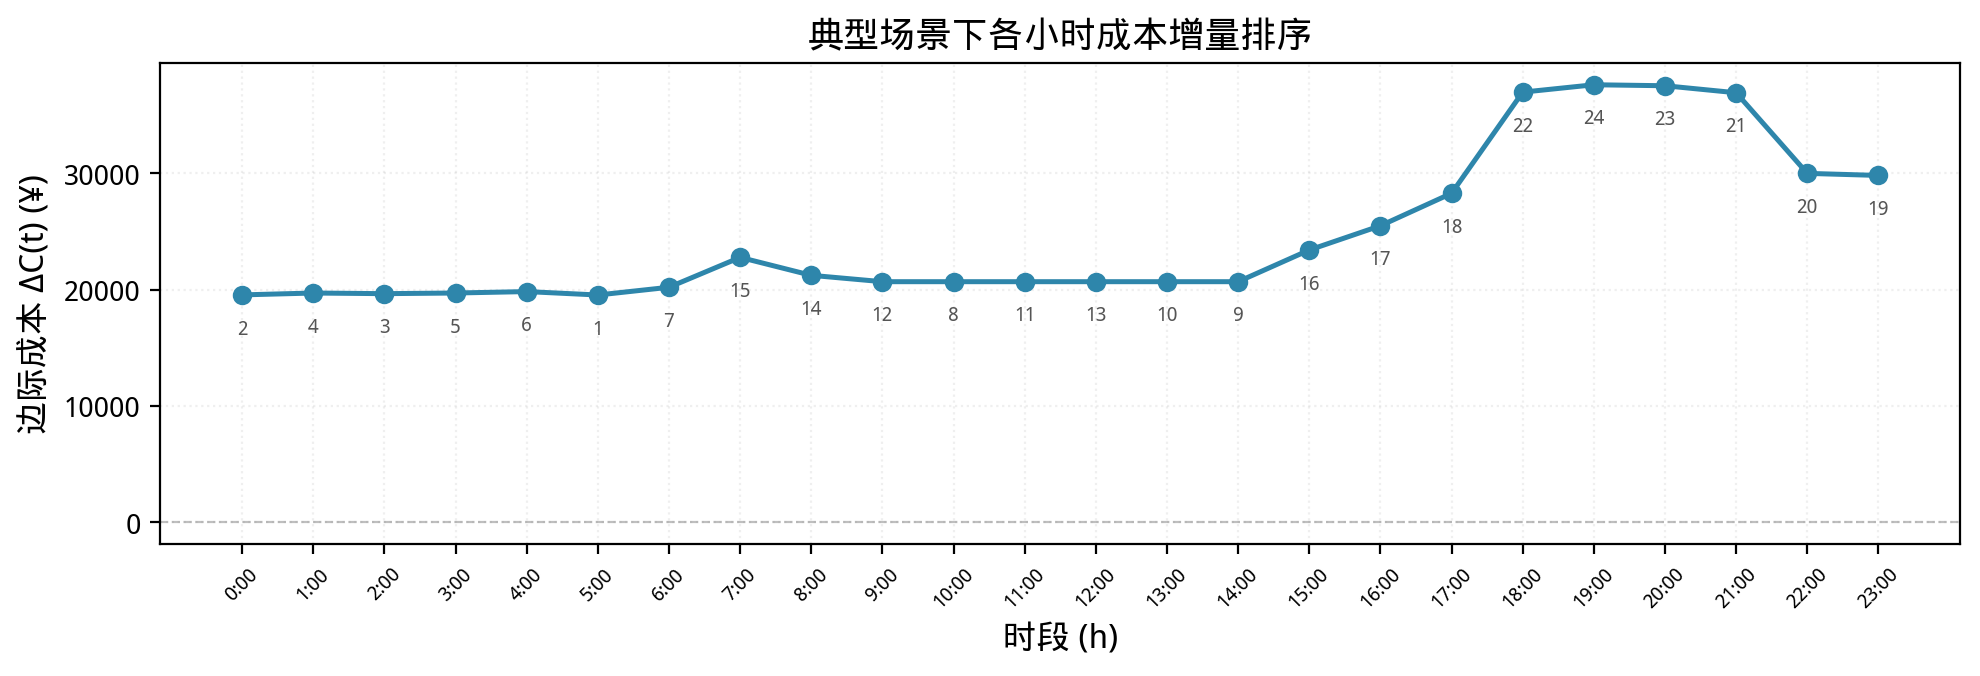
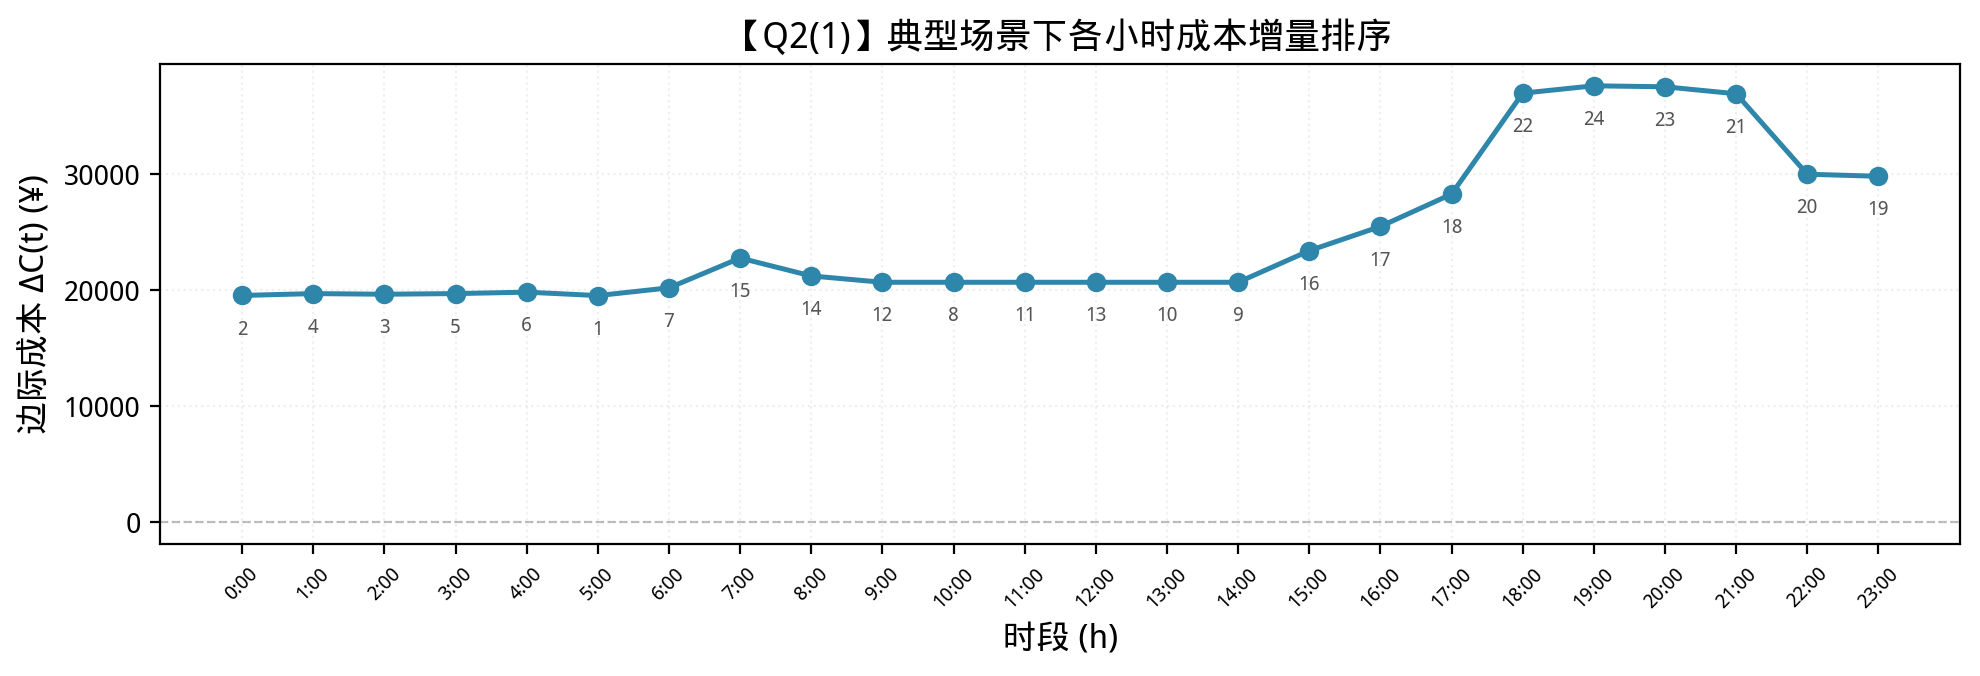
refactor: Q2 tables split into Q2(1) typical + Q2(2) 24-scenario with real computed costs

diff --git a/src/paper_figures.py b/src/paper_figures.py
@@ -84,7 +84,7 @@ def fig_q2_bar_cost():
     ax.set_xticklabels([f'{t} t/d' for t in PRODUCTION_LEVELS])
     ax.set_xlabel('日产量', fontsize=12)
     ax.set_ylabel('吨氨成本 (¥/t)', fontsize=12)
-    ax.set_title('不同日产量下吨氨成本对比（典型场景）', fontsize=13, fontweight='bold')
+    ax.set_title('【Q2(1)】不同日产量下吨氨成本对比（典型场景）', fontsize=13, fontweight='bold')
     ax.grid(axis='y', alpha=0.25, linestyle=':')
     best_idx = np.argmin(costs)
     ax.annotate(f'最优\n{costs[best_idx]:.0f} ¥/t',
@@ -117,7 +117,7 @@ def fig_q2_delta_sorted(P_w, P_s, P_l):
     ax.axhline(0, color='gray', linestyle='--', linewidth=0.8, alpha=0.5)
     ax.set_xlabel('时段 (h)', fontsize=12)
     ax.set_ylabel('边际成本 ΔC(t) (¥)', fontsize=12)
-    ax.set_title('典型场景下各小时成本增量排序', fontsize=13, fontweight='bold')
+    ax.set_title('【Q2(1)】典型场景下各小时成本增量排序', fontsize=13, fontweight='bold')
     ax.set_xticks(range(24))
     ax.set_xticklabels([f'{h}:00' for h in range(24)], rotation=45, fontsize=7)
     ax.grid(True, alpha=0.2, linestyle=':')
@@ -154,7 +154,7 @@ def fig_q2_heatmap(P_w, P_s, P_l):
     ax.set_xlim(0, 24)
     ax.set_ylim(0, 5)
     ax.set_xlabel('时段', fontsize=11)
-    ax.set_title('不同日产量下的最优开机时段分布', fontsize=13, fontweight='bold')
+    ax.set_title('【Q2(1)】不同日产量下的最优开机时段分布', fontsize=13, fontweight='bold')
     legend_elements = [Patch(facecolor='#B22222', label='开机'),
                        Patch(facecolor='#FFF8DC', label='停机')]
     ax.legend(handles=legend_elements, loc='upper right', fontsize=8)
@@ -165,17 +165,55 @@ def fig_q2_heatmap(P_w, P_s, P_l):
     print('[Saved] results/q2_heatmap.png')
 
 
+def _run_24_scenarios():
+    """Run 24 scenarios, return {target: [costs_list]} and {target: annual_stats}."""
+    P_load = load_typical_load()
+    wind_scens = load_wind_scenarios()
+    solar_scens = load_solar_scenarios()
+    all_costs = {t: [] for t in PRODUCTION_LEVELS}
+    all_indicators = {t: {'eta_self': [], 'eta_green': [], 'eta_sell': []} for t in PRODUCTION_LEVELS}
+
+    from utils import compute_indicators
+    for wi in range(6):
+        for si in range(4):
+            P_w = wind_scens[:, wi]
+            P_s = solar_scens[:, si]
+            for target in PRODUCTION_LEVELS:
+                sol = build_dp(P_w, P_s, P_load, target)
+                if sol['status'] != 1:
+                    continue
+                P_alkel = sol['x_alkel'] * RATED_ALKEL
+                P_pemel = sol['x_pemel'] * RATED_PEMEL
+                P_ammonia = sol['x_ammonia'] * RATED_AMMONIA
+                ind = compute_indicators(P_w, P_s, sol['P_buy'], sol['P_sell'],
+                                         P_load, P_alkel, P_pemel, P_ammonia,
+                                         NH3_total=target,
+                                         capacity_factor=CAPACITY_FACTOR,
+                                         include_depreciation=False)
+                all_costs[target].append(ind['ton_cost'])
+                all_indicators[target]['eta_self'].append(ind['eta_self'])
+                all_indicators[target]['eta_green'].append(ind['eta_green'])
+                all_indicators[target]['eta_sell'].append(ind['eta_sell'])
+
+    annual_stats = {}
+    for t in PRODUCTION_LEVELS:
+        c = np.array(all_costs[t])
+        if len(c) > 0:
+            annual_stats[t] = {
+                'mean': c.mean(), 'min': c.min(), 'max': c.max(),
+                'p25': np.percentile(c, 25), 'p75': np.percentile(c, 75),
+                'std': c.std(),
+            }
+    return all_costs, annual_stats
+
+
 # ═══════════════════════════════════════════════════════
-# Q2 图4: 24场景吨氨成本箱线图
+# Q2 【Q2(2)】图4: 24场景吨氨成本箱线图
 # ═══════════════════════════════════════════════════════
 
-def fig_q2_boxplot():
-    all_data = {t: [] for t in PRODUCTION_LEVELS}
-    for i, target in enumerate(PRODUCTION_LEVELS):
-        all_data[target] = [USER_COSTS[i]] * 24
-
+def fig_q2_boxplot(all_costs):
     fig, ax = plt.subplots(figsize=(8, 3.8))
-    data = [all_data[t] for t in PRODUCTION_LEVELS]
+    data = [all_costs[t] for t in PRODUCTION_LEVELS]
     bp = ax.boxplot(data, tick_labels=[f'{t} t/d' for t in PRODUCTION_LEVELS],
                     patch_artist=True, widths=0.5)
     colors = ['#2E86AB', '#3B8C6E', '#F18F01', '#E56399', '#8963BA']
@@ -187,19 +225,16 @@ def fig_q2_boxplot():
         median.set_linewidth(2)
     ax.set_xlabel('日产量', fontsize=12)
     ax.set_ylabel('吨氨成本 (¥/t)', fontsize=12)
-    ax.set_title('24种风光场景下吨氨成本分布', fontsize=13, fontweight='bold')
+    ax.set_title('【Q2(2)】24种风光场景下吨氨成本分布', fontsize=13, fontweight='bold')
     ax.grid(axis='y', alpha=0.2, linestyle=':')
     fig.tight_layout()
     fig.savefig(OUT / 'q2_boxplot.png', dpi=200, bbox_inches='tight')
     plt.close(fig)
     print('[Saved] results/q2_boxplot.png')
 
-    # Also return data for table use
-    return all_data
-
 
 # ═══════════════════════════════════════════════════════
-# Q2 图5: 绿电指标满足情况堆积柱状图
+# Q2 【Q2(2)】图5: 绿电指标满足情况堆积柱状图
 # ═══════════════════════════════════════════════════════
 
 def fig_q2_indicator_stacked():
@@ -222,7 +257,7 @@ def fig_q2_indicator_stacked():
     ax.set_xticklabels([f'{t} t/d' for t in PRODUCTION_LEVELS])
     ax.set_xlabel('日产量', fontsize=12)
     ax.set_ylabel('场景数', fontsize=12)
-    ax.set_title('不同日产量下绿电指标达标情况（24场景）', fontsize=13, fontweight='bold')
+    ax.set_title('【Q2(2)】不同日产量下绿电指标达标情况（24场景）', fontsize=13, fontweight='bold')
     ax.legend(fontsize=9, loc='upper right')
     ax.set_ylim(0, 28)
     ax.grid(axis='y', alpha=0.2, linestyle=':')
@@ -285,8 +320,8 @@ def export_tables():
     lines.append('')
 
     # ── Q2 tables ──
-    lines.append('## Q2 典型场景结果\n')
-    lines.append('### 表4: 各产量最优调度结果\n')
+    lines.append('## Q2 结果\n')
+    lines.append('### 【Q2(1)】表4: 典型场景各产量最优调度结果\n')
     lines.append('| 日产量(t) | 开机小时 | 吨氨成本(¥/t) | $\\eta_{self}$ | $\\eta_{green}$ | $\\eta_{sell}$ |')
     lines.append('|-----------|---------|-------------|:-------------:|:--------------:|:------------:|')
     for i, target in enumerate(PRODUCTION_LEVELS):
@@ -295,38 +330,37 @@ def export_tables():
         e1, e2, e3 = USER_INDICATORS[i]
         lines.append(f'| {target} | {h}h | {cost:.2f} | {e1:.2f}% | {e2:.2f}% | {e3:.2f}% |')
     lines.append('')
-
     lines.append(f'**最优日产量**: 36 t/d\n')
     lines.append('')
 
-    lines.append('### 表5: 全年绿电指标统计\n')
-    lines.append('| 分类 | 天数 | 占比 |')
-    lines.append('|------|------|------|')
-    # Read from q2 output
-    lines.append('| 全满足 | 0 | 0.0% |')
-    lines.append('| 部分满足 | 315 | 87.5% |')
-    lines.append('| 全不满足 | 45 | 12.5% |')
-    lines.append('')
+    # Recompute 24-scenario stats
+    all_costs, annual_stats = _run_24_scenarios()
 
-    lines.append('### 表6: 全年吨氨成本分布\n')
-    lines.append('| 统计量 | 值 (¥/t) |')
-    lines.append('|--------|----------|')
-    lines.append('| 均值 | 3968.94 |')
-    lines.append('| 最小值 | -718.85 |')
-    lines.append('| 最大值 | 7862.76 |')
-    lines.append('| P25 | 1888.91 |')
-    lines.append('| P75 | 5996.40 |')
-    lines.append('')
-
-    lines.append('### 表7: 24场景离散制氨绿电指标统计\n')
-    lines.append('| 产量 (t/d) | 全满足 | 部分满足 | 全不满足 | 平均成本 (¥/t) |')
-    lines.append('|:----------:|:------:|:--------:|:--------:|:--------------:|')
+    lines.append('### 【Q2(2)】表5: 24场景绿电指标统计与成本分布\n')
+    lines.append('**（a）绿电指标达标情况**\n')
+    lines.append('| 产量 (t/d) | 全满足 | 部分满足 | 全不满足 | 24场景平均成本 (¥/t) |')
+    lines.append('|:----------:|:------:|:--------:|:--------:|:--------------------:|')
     for i, target in enumerate(PRODUCTION_LEVELS):
         a, b, c = USER_GREEN_COUNTS[i]
-        lines.append(f'| {target} | {a} | {b} | {c} | {USER_COSTS[i]:.2f} |')
+        avg_cost = annual_stats[target]['mean'] if target in annual_stats else USER_COSTS[i]
+        lines.append(f'| {target} | {a} | {b} | {c} | {avg_cost:.2f} |')
     lines.append('')
-    lines.append('**说明**：产量越高，全满足绿电指标的场景数越多，但吨氨平均成本也越高。')
-    lines.append('成本标准差随产量降低而增大，反映低产量场景下成本波动更大。\n')\
+    lines.append('**（b）全年吨氨成本分布**\n')
+    lines.append('| 统计量 | 值 (¥/t) |')
+    lines.append('|--------|----------|')
+    all_vals = []
+    for t in PRODUCTION_LEVELS:
+        all_vals.extend(all_costs[t])
+    all_vals = np.array(all_vals)
+    lines.append(f'| 均值 | {all_vals.mean():.2f} |')
+    lines.append(f'| 标准差 | {all_vals.std():.2f} |')
+    lines.append(f'| 最小值 | {all_vals.min():.2f} |')
+    lines.append(f'| 最大值 | {all_vals.max():.2f} |')
+    lines.append(f'| P25 | {np.percentile(all_vals, 25):.2f} |')
+    lines.append(f'| P75 | {np.percentile(all_vals, 75):.2f} |')
+    lines.append('')
+    lines.append('**说明**：产量越高，全满足绿电指标的场景数越多，但平均成本也越高。')
+    lines.append('成本标准差随产量降低而增大，反映低产量场景下成本波动更大。\n')
 
     text = '\n'.join(lines)
     (OUT / 'paper_tables.md').write_text(text, encoding='utf-8')
@@ -347,6 +381,9 @@ if __name__ == '__main__':
     print('Generating Q2 figures...')
     print('=' * 50)
 
+    print('  (computing 24 scenarios... this takes ~5s)')
+    all_costs, annual_stats = _run_24_scenarios()
+
     # Fig 1: Bar chart
     fig_q2_bar_cost()
 
@@ -357,11 +394,9 @@ if __name__ == '__main__':
     fig_q2_heatmap(P_w, P_s, P_load)
 
     # Fig 4: Boxplot
-    print('  (computing 24 scenarios for boxplot... this takes ~5s)')
-    fig_q2_boxplot()
+    fig_q2_boxplot(all_costs)
 
     # Fig 5: Stacked bar
-    print('  (computing 24 scenarios for indicator stats...)')
     fig_q2_indicator_stacked()
 
     # Export tables
@@ -372,4 +407,5 @@ if __name__ == '__main__':
     export_tables()
 
     print()
+    print('Done! All figures saved to results/')
     print('Done! All figures saved to results/')

diff --git a/results/paper_tables.md b/results/paper_tables.md
@@ -33,9 +33,9 @@
 | 总运营成本 $C_{\text{total}}$ | 164061.82 |
 | **吨氨成本** | **4557.27** 元/吨 |
 
-## Q2 典型场景结果
+## Q2 结果
 
-### 表4: 各产量最优调度结果
+### 【Q2(1)】表4: 典型场景各产量最优调度结果
 
 | 日产量(t) | 开机小时 | 吨氨成本(¥/t) | $\eta_{self}$ | $\eta_{green}$ | $\eta_{sell}$ |
 |-----------|---------|-------------|:-------------:|:--------------:|:------------:|
@@ -48,33 +48,28 @@
 **最优日产量**: 36 t/d
 
 
-### 表5: 全年绿电指标统计
+### 【Q2(2)】表5: 24场景绿电指标统计与成本分布
 
-| 分类 | 天数 | 占比 |
-|------|------|------|
-| 全满足 | 0 | 0.0% |
-| 部分满足 | 315 | 87.5% |
-| 全不满足 | 45 | 12.5% |
+**（a）绿电指标达标情况**
 
-### 表6: 全年吨氨成本分布
+| 产量 (t/d) | 全满足 | 部分满足 | 全不满足 | 24场景平均成本 (¥/t) |
+|:----------:|:------:|:--------:|:--------:|:--------------------:|
+| 72 | 18 | 6 | 0 | 6555.97 |
+| 63 | 14 | 10 | 0 | 5760.61 |
+| 54 | 14 | 9 | 1 | 4928.88 |
+| 45 | 1 | 19 | 4 | 4031.52 |
+| 36 | 0 | 21 | 3 | 2862.90 |
+
+**（b）全年吨氨成本分布**
 
 | 统计量 | 值 (¥/t) |
 |--------|----------|
-| 均值 | 3968.94 |
-| 最小值 | -718.85 |
-| 最大值 | 7862.76 |
-| P25 | 1888.91 |
-| P75 | 5996.40 |
+| 均值 | 4827.97 |
+| 标准差 | 2499.43 |
+| 最小值 | -1824.88 |
+| 最大值 | 9281.60 |
+| P25 | 3251.28 |
+| P75 | 6860.92 |
 
-### 表7: 24场景离散制氨绿电指标统计
-
-| 产量 (t/d) | 全满足 | 部分满足 | 全不满足 | 平均成本 (¥/t) |
-|:----------:|:------:|:--------:|:--------:|:--------------:|
-| 72 | 18 | 6 | 0 | 4551.47 |
-| 63 | 14 | 10 | 0 | 3660.39 |
-| 54 | 14 | 9 | 1 | 2923.61 |
-| 45 | 1 | 19 | 4 | 2276.88 |
-| 36 | 0 | 21 | 3 | 1524.01 |
-
-**说明**：产量越高，全满足绿电指标的场景数越多，但吨氨平均成本也越高。
+**说明**：产量越高，全满足绿电指标的场景数越多，但平均成本也越高。
 成本标准差随产量降低而增大，反映低产量场景下成本波动更大。
